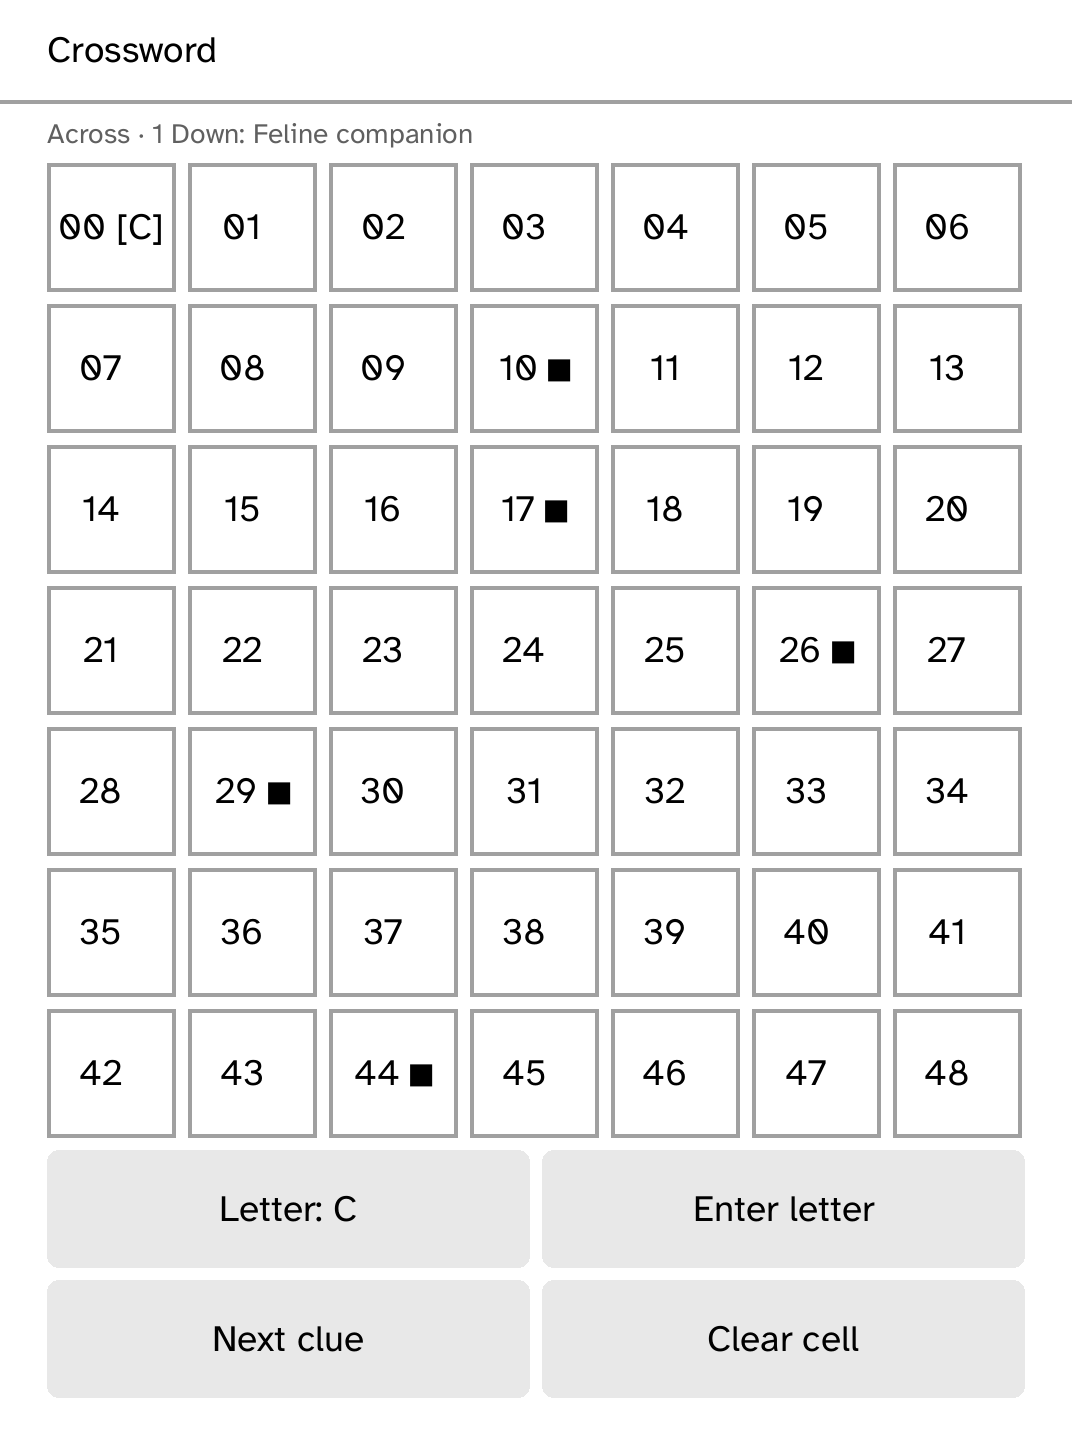
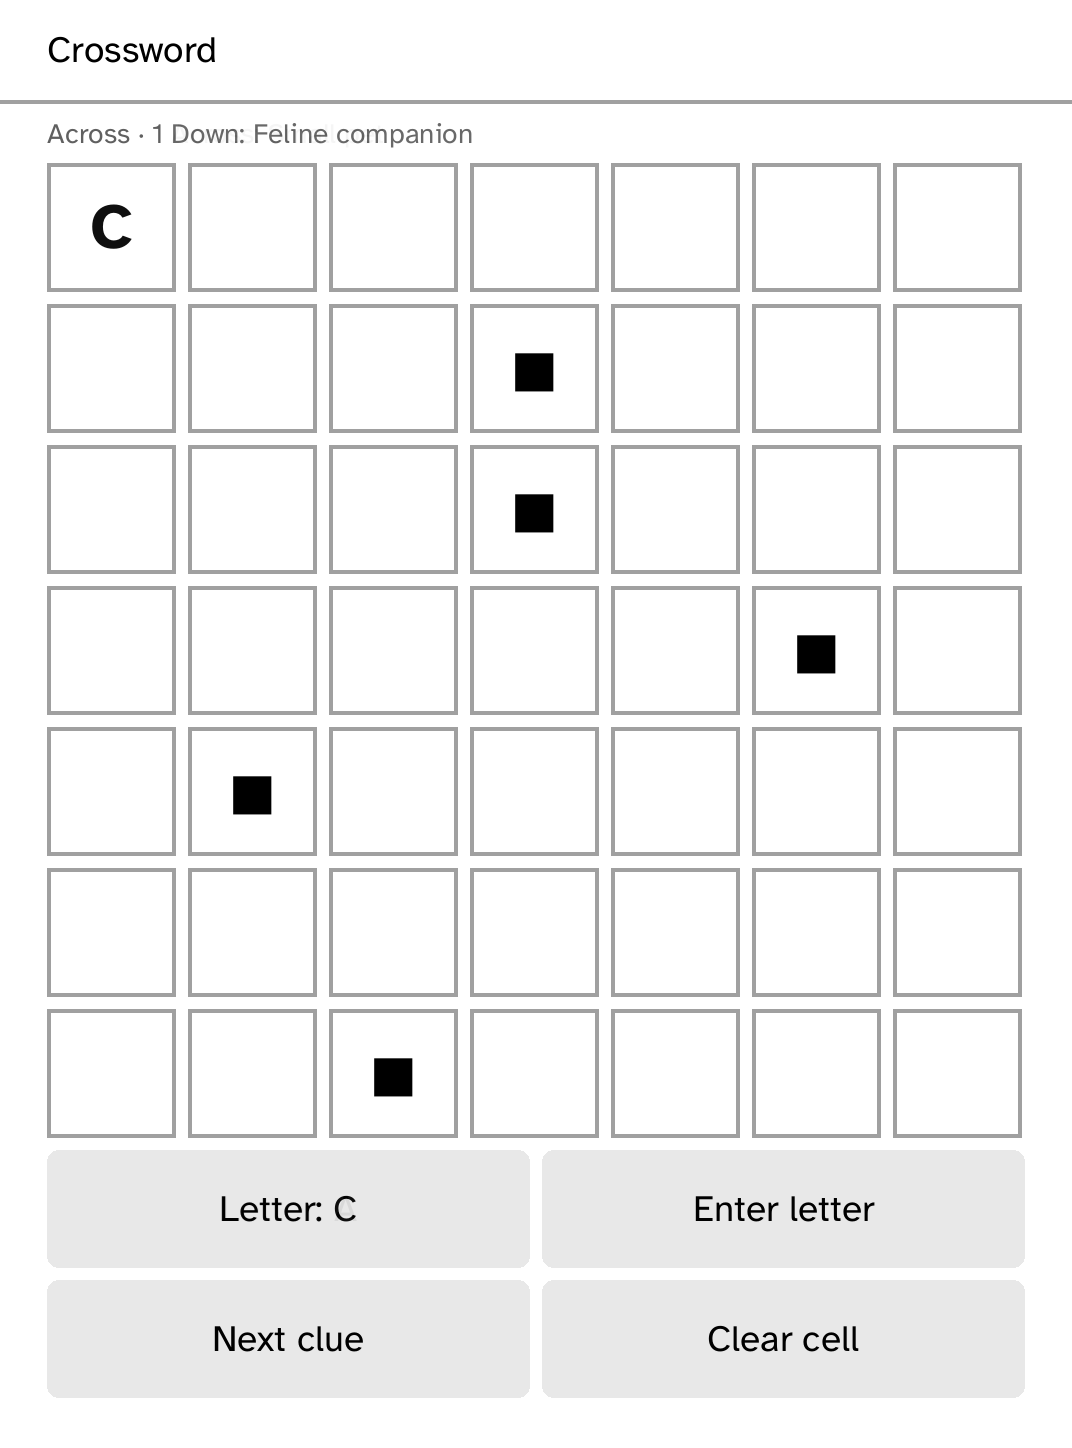
Fix Crossword cell rendering
Render only centered letters or block marks in board cells so clue indices no longer collide with puzzle content. Keep the driven screenshot route coordinate-based and refresh the app and website captures.

diff --git a/apps/crossword/src/main.rs b/apps/crossword/src/main.rs
@@ -114,11 +114,9 @@ impl Game {
 fn screen(game: &Game) -> Screen {
     let cells = (0..GRID.len()).map(|cell| {
         let label = if GRID[cell] == b'#' {
-            format!("{cell:02} ■")
-        } else if Some(cell) == game.selected {
-            format!("{cell:02} [{}]", game.letters[cell])
+            "■".to_owned()
         } else {
-            format!("{cell:02} {}", game.letters[cell])
+            game.letters[cell].to_string()
         };
         (cell_name(cell), label, None)
     });
@@ -222,5 +220,35 @@ mod tests {
         let diagnostics =
             screen(&Game::default()).diagnostics(&CLARA_BW_METRICS, &Chrome::default());
         assert!(diagnostics.issues.is_empty(), "{:?}", diagnostics.issues);
+    }
+
+    #[test]
+    fn board_cells_do_not_mix_clue_numbers_with_letters() {
+        let mut game = Game::default();
+        game.select(0);
+        game.enter('C');
+        let screen = screen(&game);
+        let labels = screen
+            .nodes
+            .iter()
+            .find_map(|node| match node {
+                kobo_ui::Node::Grid {
+                    square: true,
+                    cells,
+                    ..
+                } => Some(
+                    cells
+                        .iter()
+                        .map(|cell| cell.label.as_str())
+                        .collect::<Vec<_>>(),
+                ),
+                _ => None,
+            })
+            .expect("crossword board");
+
+        assert_eq!(labels[0], "C");
+        assert_eq!(labels[10], "■");
+        assert!(labels.iter().all(|label| !label.contains('[')));
+        assert!(labels.iter().all(|label| !label.contains("00")));
     }
 }
